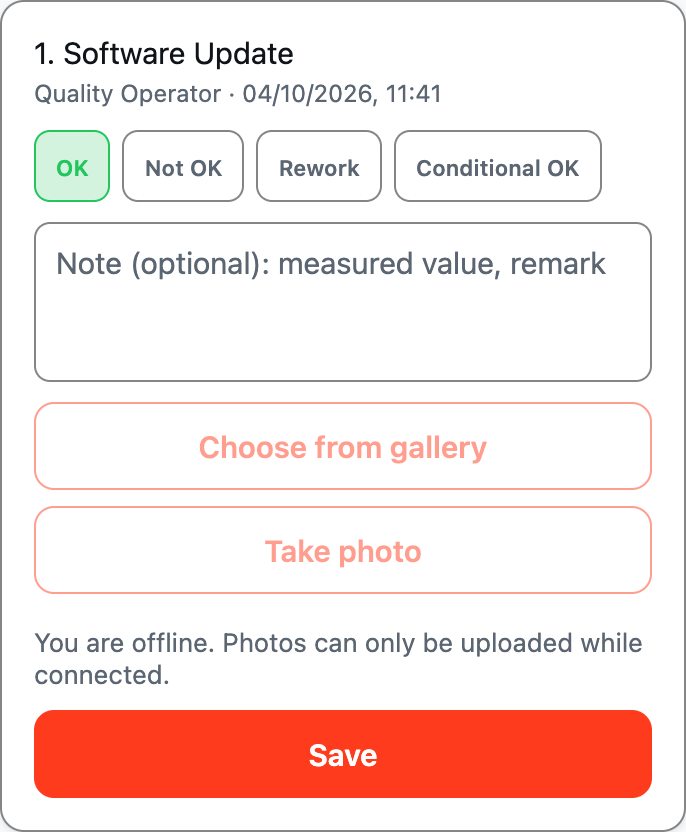
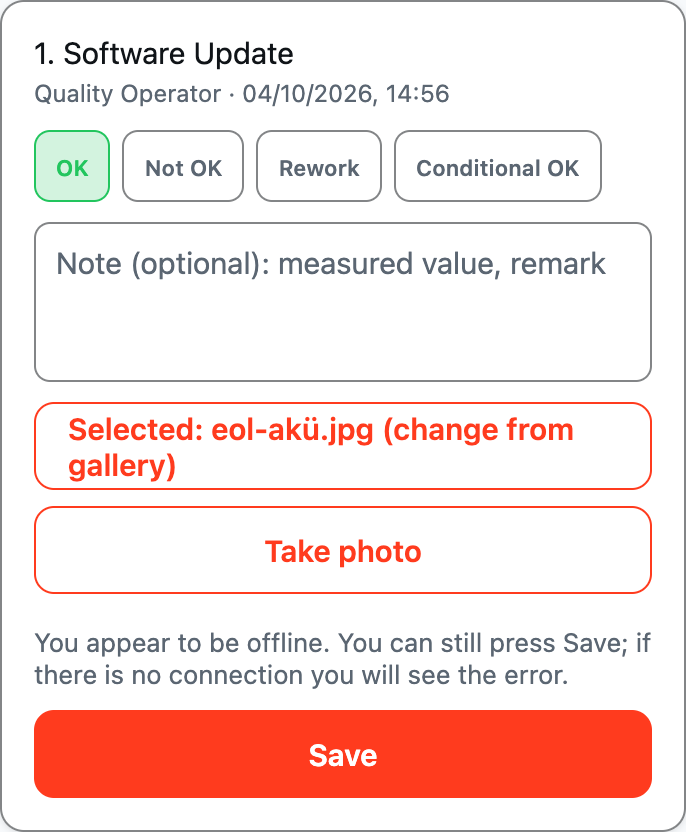
test: add eol offline retry regression test in mobile harness

diff --git a/docs/screenshots/mobile-harness/stubs.tsx b/docs/screenshots/mobile-harness/stubs.tsx
@@ -15,6 +15,7 @@ declare global {
     __nav: unknown[];
     __calls: unknown[];
     __net?: { down?: boolean; uploadTimesOutAfterServer?: boolean };
+    __setOsNetwork: (connected: boolean) => void;
   }
 }
 
@@ -96,6 +97,20 @@ export const copyAsync = async () => undefined;
 export const getInfoAsync = async () => ({ exists: true, size: 1 });
 export const deleteAsync = async (uri: string) => {
   window.__calls.push({ name: 'deleteAsync', args: [uri.slice(0, 40)] });
+};
+
+// --- expo-network: window.__setOsNetwork(bool) plays an OS network change.
+type OsListener = (s: { isConnected: boolean }) => void;
+const osListeners = new Set<OsListener>();
+export function addNetworkStateListener(fn: OsListener) {
+  osListeners.add(fn);
+  return { remove: () => osListeners.delete(fn) };
+}
+export async function getNetworkStateAsync() {
+  return { isConnected: !scene.harness?.offline };
+}
+window.__setOsNetwork = (connected: boolean) => {
+  for (const fn of osListeners) fn({ isConnected: connected });
 };
 
 // --- ../api/client

diff --git a/docs/screenshots/mobile-harness/entry.tsx b/docs/screenshots/mobile-harness/entry.tsx
@@ -11,6 +11,7 @@ import PendingReportsScreen from '../../../mobile/src/screens/PendingReportsScre
 import { ReferenceCacheProvider } from '../../../mobile/src/offline/ReferenceCacheProvider';
 import { IssueReportQueueProvider } from '../../../mobile/src/offline/IssueReportQueueProvider';
 import { resetConnectivityForTests } from '../../../mobile/src/offline/connectivityStore';
+import { watchOsNetwork } from '../../../mobile/src/offline/osNetwork';
 import { activeScene, type ScreenMap } from './scenes';
 
 const params = new URLSearchParams(location.search);
@@ -22,6 +23,7 @@ window.__KAREA_STORE = {
 };
 const scene = activeScene();
 if (scene.harness?.offline) resetConnectivityForTests(false);
+watchOsNetwork();
 if (scene.live) {
   window.__KAREA_STORE['karea.issueReportQueue.v1'] = JSON.stringify({
     [String(scene.live.userId)]: scene.live.queue,

diff --git a/docs/16_KAREA_Yapilacaklar.md b/docs/16_KAREA_Yapilacaklar.md
@@ -865,14 +865,27 @@ başlatılınca devreye girer.
   `aria-disabled=true`), `mobile-*.png` (375/1280 px, TR/EN). Gerçek
   cihazda deneme ve gerçek küçültme sonrası boyut ölçümü yapılmadı
   (düzenek küçültmeyi taklit eder).
-- **Açık sorun (2026-10-06, karar bekliyor):** çevrimdışı bilgisi
-  `connectivityStore`'dan gelir ve yalnız bir istek yanıtsız kalınca
-  "çevrimdışı"ya döner. Uçak moduna geçince düğmeler ilk başarısız
-  Kaydet'e kadar açık kalır; bağlantı dönünce ekran başka istek atmadığı
-  için düğmeler ve Kaydet (fotoğraf seçiliyse) kapalı kalır. Kanıt:
-  `docs/screenshots/eol-photo/repro-offline-output.txt` (düzenek, cihaz
-  değil). Sahada bildirilen "uyarısız yüklendi" vakasında sunucu kayıtları
-  cevap ile fotoğrafın 170 ms arayla tek Kaydet'te geldiğini gösteriyor.
+- **Sorun (2026-10-06, çözüldü):** çevrimdışı bilgisi yalnız istek
+  sonuçlarından geliyordu; uçak moduna geçince düğmeler ilk başarısız
+  Kaydet'e kadar açık kalıyor, bağlantı dönünce ekran istek atmadığı için
+  düğmeler ve Kaydet kapalı takılıyordu. Kanıt (eski kod):
+  `repro-offline-output.txt`. Sahadaki "uyarısız yüklendi" vakasında sunucu
+  kayıtları cevap ile fotoğrafın 170 ms arayla tek Kaydet'te geldiğini
+  gösteriyor.
+- **Çözüm (Karar 27):** bayrak `expo-network` ile işletim sisteminin ağ
+  durumuna da bağlandı ve artık hiçbir şeyi engellemiyor. Düğmeler yalnız
+  işlem sürerken kapalı; çevrimdışıyken kartta "Çevrimdışı görünüyorsunuz.
+  Yine de Kaydet'e basabilirsiniz; bağlantı yoksa hata gösterilir." yazar.
+  Kalıcı test: `docs/screenshots/eol-photo/offline-retry.mjs` (19 kontrol:
+  çevrimdışı → Kaydet düşer → bağlantı döner → başka işlem yapmadan Kaydet
+  başarılı; işletim sistemi olayı gelmese de bayat bayrak engellemez).
+  Arıza bildirimi ekranı değişmedi.
+- **Bilinen sınır (çözüm sonra):** istek 15 sn'de zaman aşımına uğrar.
+  Fotoğraf sunucuya ulaşıp kaydedilir ama yanıt bu sürede dönmezse
+  kullanıcı "yüklenemedi" görür; yeniden Kaydet ikinci bir
+  `media_attachments` satırı oluşturur. `POST /media` tekrar gönderimi
+  tanımıyor. Çözüm `client_request_id` (istek kimliği + benzersiz indeks,
+  migration gerekir) ile yapılacak; şimdi yapılmadı.
 
 ### A44. EOL maddesinde ekli fotoğrafların gösterimi `[x]` — 2026-10-06
 - **Sunucu:** `ListItemsWithProgress` her madde için
